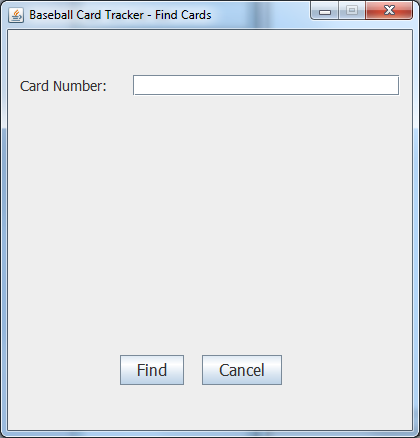
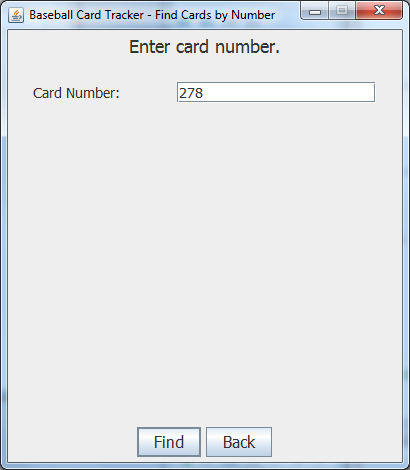
Updated user manual.

diff --git a/docs/usermanual/index.html b/docs/usermanual/index.html
@@ -5,35 +5,55 @@
 
     <body>
         <h1>Baseball Card Tracker</h1>
-        <p>&copy; 2012 Layne Lund</p>
-        <p>This is the user manual for Baseball Card Tracker</p>
-        
-        <h2>Installation</h2>
-        
         <p>
-            Extract the contents of the "baseball.zip" file to your desktop.
+            &copy; 2012 codeguru <a href="mailto:codeguru@users.sourceforge.net">&lt;codeguru@users.sourceforge.net&gt;</a>
         </p>
         
-        <h2>Running Baseball Card Tracker</h2>
-        
         <p>
-            Double-click on the "baseball.jar" file.
+            This is the user manual for Baseball Card Tracker
+        </p>
+        
+        <a name="tableofcontents"><h2>Table of Contents</h2></a>
+        <ol>
+            <li><a href="#installation">Installation</a></li>
+            <li><a href="#running">Running Baseball Card Tracker</a></li>
+            <li><a href="#mainmenu">Main Menu</a></li>
+            <li><a href="#addcards">Add Cards</a></li>
+            <li><a href="#findcardsmenu">Find Cards Menu</a></li>
+            <li><a href="#findcardsby">Find Cards By...</a></li>
+            <li><a href="#editcards">Edit Cards</a></li>
+            <li><a href="#about">About</a></li>
+        </ol>
+
+        <a name="installation"><h2>Installation</h2></a>
+
+        <p>
+            Extract the contents of the "baseball.zip" file to your desktop or
+            any folder of your choice.
+        </p>
+        
+        <a href="#tableofcontents">Return to Table of Contents</a>
+
+        <a name="running"><h2>Running Baseball Card Tracker</h2></a>
+
+        <p>
+            Open the "bbct" folder and double-click on the "baseball.jar" file.
         </p>
 
-        <h2>Main Screen</h2>
-        <img src="img/main.png"/>
-        <p>
-            The main screen has four buttons which allow the user to select
-            which operation to perform:
-        </p>
+        <a href="#tableofcontents">Return to Table of Contents</a>
+
+        <a name="mainmenu"><h2>Main Menu</h2></a>
+        <img src="img/menu.png"/>
+
+        <h3>Buttons:</h3>
 
         <ul>
             <li>
                 Add Cards - Click to add new cards to your collection.
             </li>
             <li>
-                Find Cards - Click to find cards and update their monetary
-                value and the number of cards you own.
+                Find Cards - Click to find cards and update their monetary value
+                and the number of cards you own.
             </li>
             <li>
                 About - Click to display information about this software,
@@ -44,18 +64,20 @@
             </li>
         </ul>
 
-        <h2>Add Cards Screen</h2>
+        <a href="#tableofcontents">Return to Table of Contents</a>
+
+        <a name="addcards"><h2>Add Cards</h2></a>
+        
         <img src="img/addcards.png"/>
+        
         <p>
-            The add cards screen allows the user to input details about a
-            baseball card in their collection. Data includes the card brand,
-            year, number, value, and count of cards owned, and the player's name
-            and position.
+            The add cards window allows you to input details about a baseball
+            card in their collection. Data includes the card brand, year,
+            number, value, and count of cards owned, and the player's name and
+            position.
         </p>
 
-        <p>
-            Buttons:
-        </p>
+        <h3>Buttons:</h3>
 
         <ul>
             <li>
@@ -64,40 +86,87 @@
                     not yet implemented.</em>
             </li>
             <li>
-                Cancel - Clear all fields and return to the main screen.
-            </li>
-            <li>
-                Done - Return to the main screen.
+                Back - Return to the main menu.
             </li>
         </ul>
 
-        <h2>Find Cards Screen</h2>
-        <img src="img/findcards.png"/>
+        <a href="#tableofcontents">Return to Table of Contents</a>
+
+        <a name="findcardsmenu"><h2>Find Cards Menu</h2></a>
+        
+        <img src="img/findcardsmenu.png"/>
+        
         <p>
-            The find cards screen allows the user to search for a card in their
-            collection. Searches can be done by card year, card number, and card
-            player. Any combination of these three search terms is allowed.
+            The find cards menu gives you the option to search by a card's year,
+            number, both year and number, or player's name.
         </p>
 
+        <a href="#tableofcontents">Return to Table of Contents</a>
+
+        <a name="findcardsby"><h2>Find Cards By...</h2></a>
+        
+        <img src="img/findcardsbyyear.png"/>
+        <img src="img/findcardsbynumber.png"/>
+        <img src="img/findcardsbyyearandnumber.png"/>
+        <img src="img/findcardsbyplayername.png"/>
+
         <p>
-            Buttons:
+            Each of these windows allows you to enter the criteria for a card
+            search.
         </p>
+
+        <h3>Buttons:</h3>
 
         <ul>
             <li>
-                Find Cards - Find cards in the user's collection which match
-                the search criteria.
+                Find - Find cards in your collection which match the
+                search criteria and display the card details for editing.
             </li>
             <li>
-                Cancel - Clear search fields and return to the main screen.
+                Back - Return to the Find Cards menu.
             </li>
         </ul>
 
-        <h2>About Screen</h2>
+        <a href="#tableofcontents">Return to Table of Contents</a>
+
+        <a name="editcards"><h2>Edit Cards</h2></a>
+        <img src="img/editcards.png"/>
+        <p>
+            This window allows you to view each card that matches your search
+            criteria. You can also edit the monetary value and number of cards
+            you own.
+        </p>
+
+        <h3>Buttons:</h3>
+
+        <ul>
+            <li>
+                <-- Previous - Go to the previous card which matched your search
+                criteria.
+            </li>
+            <li>
+                Next --> - Go to the next card which matched your search
+                criteria.
+            </li>
+            <li>
+                Done - Store your changes, if any, and return to the Find Cards
+                Menu.
+            </li>
+        </ul>
+
+
+        <a href="#tableofcontents">Return to Table of Contents</a>
+
+        <a name="about"><h2>About</h2></a>
+        
         <img src="img/about.png"/>
+        
         <p>
             The about screen displays a copyright notice for Baseball Card
             Tracker. The OK button returns the user to the main screen.
         </p>
+        
+        <a href="#tableofcontents">Return to Table of Contents</a>
+
     </body>
 </html>
